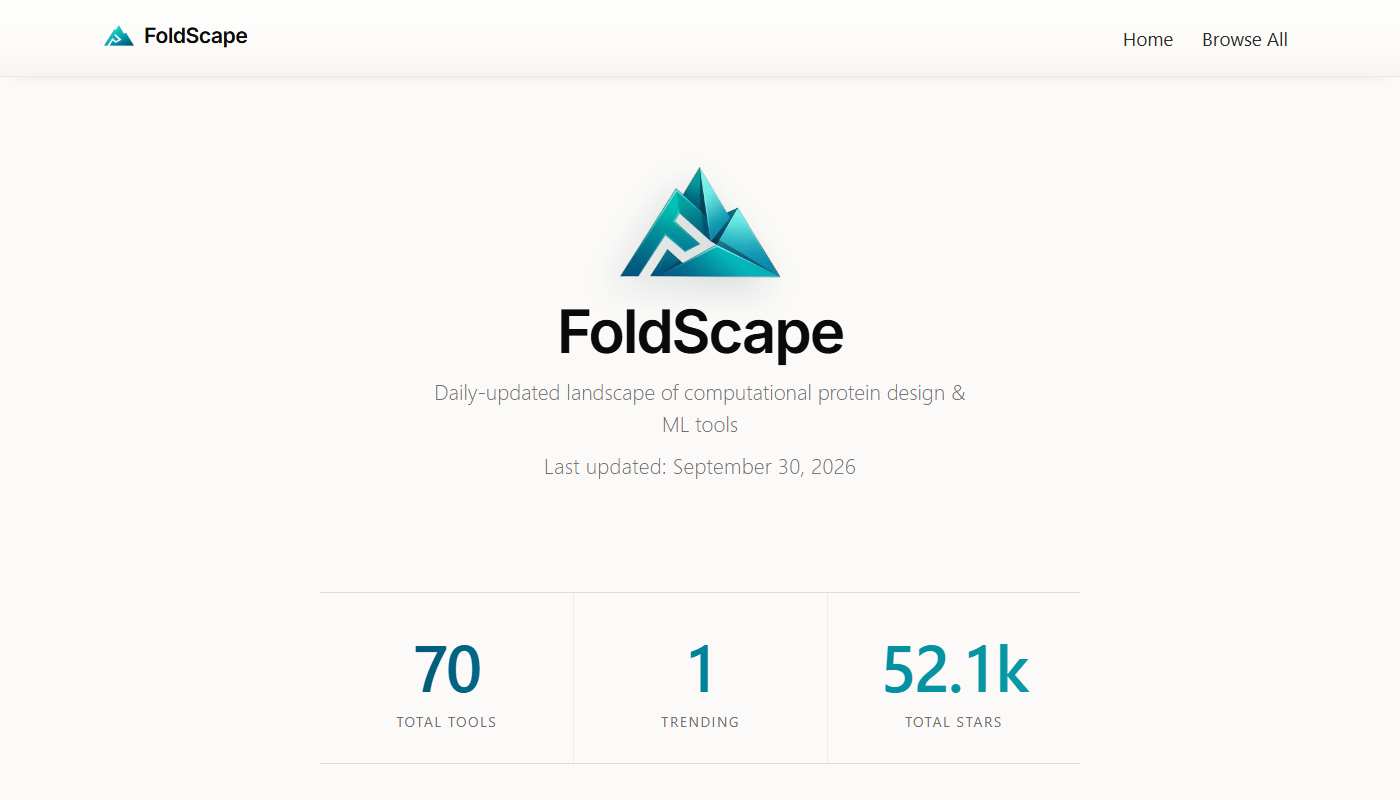
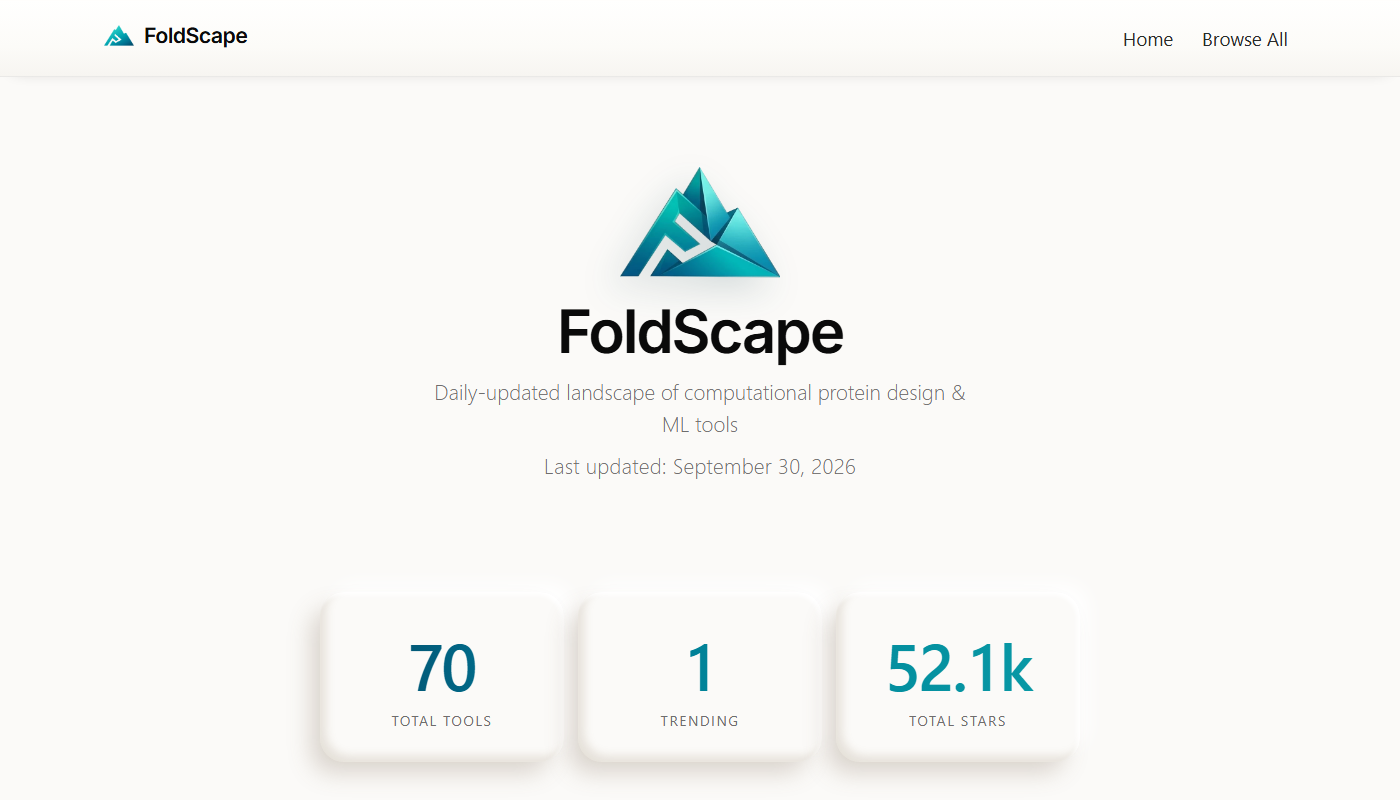
replace the stat hairlines with three plaster tiles lit from the upper right

Changed region(s): [[0.215, 0.7812, 0.7679, 0.9688], [0.2764, 0.8125, 0.3686, 0.9062], [0.4607, 0.875, 0.5221, 0.9062]]

diff --git a/site/index.html b/site/index.html
@@ -54,15 +54,22 @@
         /* Stats — one gradient sweep across all three numbers (his favourite detail),
            now in the emblem's own teal. Each number shows its third of a single
            gradient, so the eye reads one continuous band left to right.
-           Flat and hairline-divided to match the tables: no boxes, no shadows. */
+           The row is three low plaster tiles of the page's own colour, shaped only by
+           light. Light comes from the upper right (as on the emblem): top/right edges
+           catch it, shadows fall to the lower left. */
         .stats-grid {
-            display: grid; grid-template-columns: repeat(3, minmax(0, 1fr));
+            display: grid; grid-template-columns: repeat(3, minmax(0, 1fr)); gap: 14px;
             max-width: 760px; margin: 2.5rem auto 4.5rem;
-            border-top: 1px solid var(--line-strong); border-bottom: 1px solid var(--line-strong);
         }
-        .stat-card { background: none; box-shadow: none; border: none; border-radius: 0;
-                     margin: 0; padding: 1.9rem 1rem 1.6rem; text-align: center; }
-        .stat-card + .stat-card { border-left: 1px solid var(--line); }
+        /* Tile shading, light from the upper right: lit rim top/right, shaded rim
+           bottom/left, cast shadow lower left, light spilling off the upper right. */
+        .stat-card {
+            margin: 0; padding: 1.9rem 1rem 1.6rem; text-align: center; border: none;
+            border-radius: 24px; background: #fbfaf8;
+            --tile-shadow: inset -3px 3px 4px rgba(255, 255, 255, 1), inset 6px -6px 10px rgba(150, 128, 100, 0.2), -12px 14px 24px -4px rgba(120, 98, 74, 0.26), 10px -10px 20px -2px rgba(255, 255, 255, 1);
+            box-shadow: var(--tile-shadow);
+        }
+        article.stat-card { box-shadow: var(--tile-shadow); }
         .stat-card h2 {
             font-size: 3.25rem; margin: 0; font-weight: 600; letter-spacing: -0.035em;
             font-variant-numeric: tabular-nums; line-height: 1.05;
